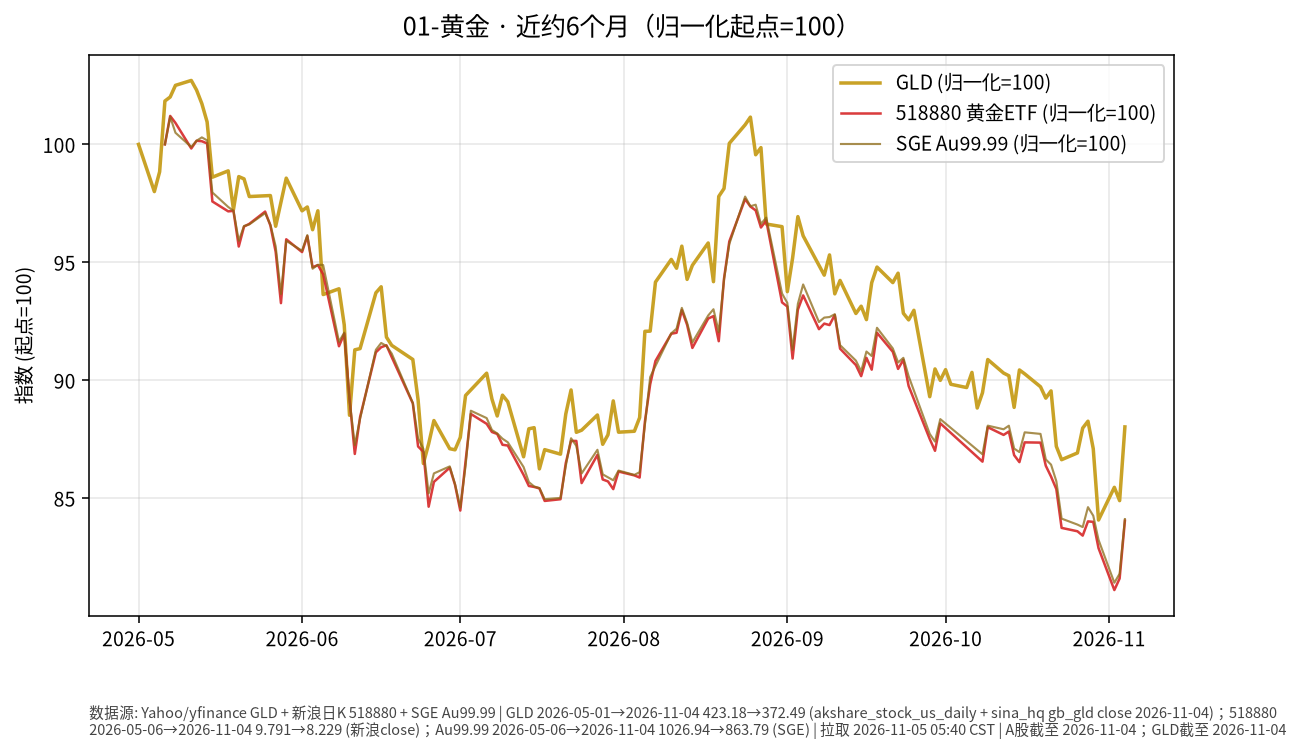
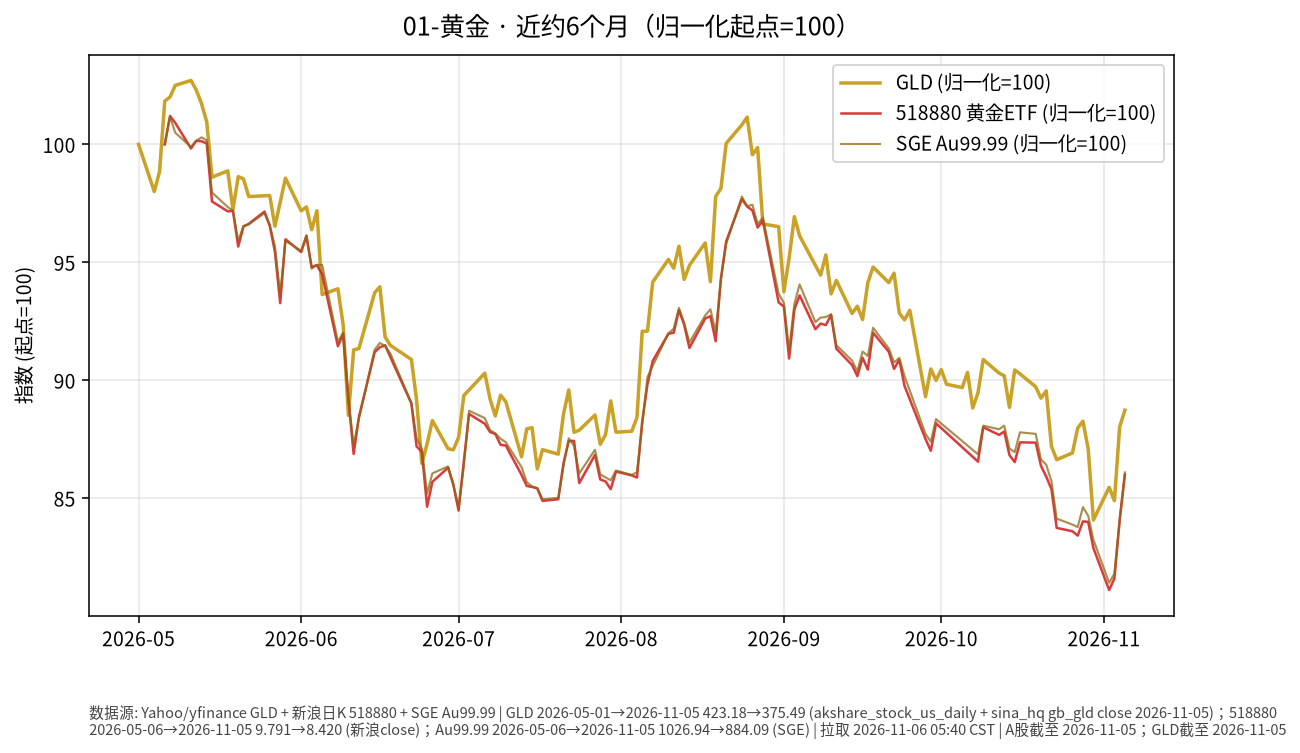
docs: 五门类投资日报 2026-11-06

diff --git a/01-黄金/日报/2026-11-06.md b/01-黄金/日报/2026-11-06.md
@@ -1,0 +1,38 @@
+# 黄金 · 日报 2026-11-06
+
+## 市场状态
+- **报告日**：2026-11-06（周五，Asia/Shanghai 盘前例程）
+- **数据截止交易日**：A 股/沪金均为 **2026-11-05（周四）**；GLD 为美股 **2026-11-05** 收盘（美东前一晚，对本报告而言属「隔夜已收」）。本页数字不含周五盘中。
+- GLD 收盘 **375.49**，较前一交易日（2026-11-04 的 372.49）**+0.81%**（akshare 日 K 至 11-04；**2026-11-05** 点位由新浪美股行情 `gb_gld` 补齐；yfinance/Yahoo 限流）。
+- 沪金 AU9999：**2026-11-05** 收盘 **884.09** 元/克（**+2.35%**）；黄金 ETF 518880 收 **8.420**（**+2.32%**）。
+
+## 关键数据
+| 标的 | 最近收盘日 | 收盘 | 日涨跌 | 近约6个月（归一起点日） | 区间涨跌 |
+|------|------------|------|--------|-------------------------|----------|
+| GLD | 2026-11-05 | 375.49 | +0.81% | 2026-05-01→2026-11-05 | -11.27% |
+| 518880 黄金ETF | 2026-11-05 | 8.420 | +2.32% | 2026-05-06→2026-11-05 | -14.00% |
+| AU9999（沪金） | 2026-11-05 | 884.09 | +2.35% | 2026-05-06→2026-11-05 | -13.91% |
+
+![近6个月走势](charts/01-黄金.png)
+
+## 简要解读
+- 美元计价黄金 ETF（GLD）在 **2026-11-05** 较前一交易日约 **+0.81%**；境内 518880 约 **+2.32%**，沪金 AU9999 约 **+2.35%**。近约半年归一后约 **-11.27%～-14.00%**（自 5 月高位回撤后的区间路径）。
+- 价格变动同时受美元、实际利率与风险情绪影响；本页只描述已发生报价，不推断下一步方向。
+
+## 关注点与风险
+- 汇率：境内投资者若以人民币计量，还需叠加美元兑人民币变动，账面涨跌可能与 GLD 美元涨跌不一致。
+- 波动：黄金单日可达数个百分点；ETF 净值/溢价、交易时段与现货不完全同步。
+- 数据完整性：GLD 历史至 11-04 来自 akshare；**2026-11-05** 收盘由新浪 `gb_gld` 补点（yfinance/Yahoo 限流）。518880 新浪日 K；SGE Au99.99 完整。
+
+## 来源与时间
+- GLD：akshare `stock_us_daily`（至 2026-11-04）+ 新浪 hq `gb_gld`（2026-11-05）；yfinance/Yahoo 限流
+- 518880：新浪日 K；AU9999：上海金交所 Dailyhq
+- 图表：Python matplotlib，收盘价归一到起点=100（图窗自 2026-05-01 起）；拉取约 2026-11-06 05:40:26 CST
+
+## 今日一点
+# 今日一点 · Day 10/100 · 《费用如何吃收益》
+
+**结论：** 费用是确定要扣的「负收益」——还没谈行情，申赎费、管理费、佣金和冲击成本已经在账上咬一口。
+
+**机制：** 申赎费在买卖时直接砍；管理费/托管费从净值里天天抽，一年下来才显眼；交易佣金按成交额计，频繁换仓就叠高；冲击成本是你自己的大单把价格推偏、成交均价变差。债底仓票息本就不高，费用若偏高会先吃掉「看起来稳」的那截；以后若划拨股票卫星，换手与冲击更显眼。和债底仓主线一致：先让费用可核对、可压低，再谈卫星。今天只讲摩擦，不定买卖。
+

diff --git a/03-国债/日报/2026-11-06.md b/03-国债/日报/2026-11-06.md
@@ -1,0 +1,37 @@
+# 国债 · 日报 2026-11-06
+
+## 市场状态
+- **报告日**：2026-11-06；**数据截止交易日**：**2026-11-05**。
+- 国债 ETF 511010 收 **141.352**，日涨跌 **+0.000%**。
+- 中债国债收益率曲线 **10 年期** 2026-11-05 报 **1.6038%**，较上一可得日（2026-11-04 的 1.6077%）约 **-0.39 BP**（akshare `bond_zh_us_rate`）。
+- **提醒**：利率上行（曲线上移）通常对应既有国债价格承压；图中 ETF 净值涨 ≠ 收益率涨。**利率↑线↑≠债价涨**。
+
+## 关键数据
+| 标的 | 收盘日 | 收盘/收益率 | 日变化 | 约6个月 | 区间 |
+|------|--------|-------------|--------|---------|------|
+| 511010 | 2026-11-05 | 141.352 | +0.000% | 2026-05-06→2026-11-05 | +0.38% |
+| 中债10Y国债收益率 | 2026-11-05 | 1.6038% | 约-0.39 BP | 2026-05-06→2026-11-05 | 约 -16.16 BP（akshare 序列） |
+
+![近6个月走势](charts/03-国债.png)
+
+## 简要解读
+- 511010 近半年归一涨跌约 **+0.38%**，路径相对平缓；2026-11-05 日涨跌 +0.000%，同时 10Y 收益率较前一可得日约 -0.39 BP（利率微幅变动对存量债价影响有限，单日仍可能受供需/折溢价影响）。
+- 久期越长，对收益率变化越敏感；本页只记录 ETF 收盘与曲线点位。图中右轴叠加中国10Y收益率日序。
+
+## 关注点与风险
+- 利率风险：收益率上行 → 债券市价下行。
+- 通胀预期、货币政策与供需（供给放量等）都会改变曲线形态。
+- 收益率序列来自公开曲线汇总，与 ETF 交易价时间戳不完全同步。
+
+## 来源与时间
+- 511010：新浪日 K；截止 2026-11-05
+- 收益率：akshare `bond_zh_us_rate`（2026-11-05，10Y=1.6038%）
+- 图表：matplotlib，ETF 收盘归一=100，中国10Y 收益率右轴；图注已写「利率↑线↑≠债价涨」；拉取约 2026-11-06 05:40:26 CST
+
+## 今日一点
+# 今日一点 · Day 10/100 · 《费用如何吃收益》
+
+**结论：** 费用是确定要扣的「负收益」——还没谈行情，申赎费、管理费、佣金和冲击成本已经在账上咬一口。
+
+**机制：** 申赎费在买卖时直接砍；管理费/托管费从净值里天天抽，一年下来才显眼；交易佣金按成交额计，频繁换仓就叠高；冲击成本是你自己的大单把价格推偏、成交均价变差。债底仓票息本就不高，费用若偏高会先吃掉「看起来稳」的那截；以后若划拨股票卫星，换手与冲击更显眼。和债底仓主线一致：先让费用可核对、可压低，再谈卫星。今天只讲摩擦，不定买卖。
+

diff --git a/05-高股息/日报/2026-11-06.md b/05-高股息/日报/2026-11-06.md
@@ -1,0 +1,38 @@
+# 高股息 · 日报 2026-11-06
+
+## 市场状态
+- **报告日**：2026-11-06；**数据截止交易日**：**2026-11-05**。
+- 红利 ETF 510880 收 **3.348**（**-2.19%**）。
+- 招商银行 600036 收 **42.54**（**+0.00%**）；长江电力 600900 收 **29.28**（**-1.31%**）。
+- 510880 与长电同日下行，招行持平；分红与价格涨跌是两回事（股息率随股价变动）。
+- **价格口径**：本页序列为交易所日 K **未复权**收盘（新浪）。
+
+## 关键数据
+| 标的 | 收盘日 | 收盘 | 日涨跌 | 约6个月 | 区间涨跌 |
+|------|--------|------|--------|---------|----------|
+| 510880 红利ETF | 2026-11-05 | 3.348 | -2.19% | 2026-05-06→2026-11-05 | +0.21% |
+| 600036 招商银行 | 2026-11-05 | 42.54 | +0.00% | 2026-05-06→2026-11-05 | +11.95% |
+| 600900 长江电力 | 2026-11-05 | 29.28 | -1.31% | 2026-05-06→2026-11-05 | +7.65% |
+
+![近6个月走势](charts/05-高股息.png)
+
+## 简要解读
+- 近半年归一（未复权）：510880 约 **+0.21%**，招行约 **+11.95%**，长电约 **+7.65%**（个股路径强于宽基红利 ETF，不代表未来）。
+- 2026-11-05：510880 **-2.19%**、招行 **+0.00%**、长电 **-1.31%**，属已发生的价格事实。
+
+## 关注点与风险
+- 银行与公用事业对利率、监管、来水/电价等基本面敏感；高股息不保证本金稳定。
+- 510880 成分与权重定期调整；个股与 ETF 走势可显著偏离。
+- 未复权序列在除权除息日会出现跳空，与前复权路径不一致属正常。
+
+## 来源与时间
+- 510880 / 600036 / 600900：新浪 CN_MarketData K 线（未复权）
+- 截止 2026-11-05；图表 matplotlib，起点=100；图注写明未复权；拉取约 2026-11-06 05:40:26 CST
+
+## 今日一点
+# 今日一点 · Day 10/100 · 《费用如何吃收益》
+
+**结论：** 费用是确定要扣的「负收益」——还没谈行情，申赎费、管理费、佣金和冲击成本已经在账上咬一口。
+
+**机制：** 申赎费在买卖时直接砍；管理费/托管费从净值里天天抽，一年下来才显眼；交易佣金按成交额计，频繁换仓就叠高；冲击成本是你自己的大单把价格推偏、成交均价变差。债底仓票息本就不高，费用若偏高会先吃掉「看起来稳」的那截；以后若划拨股票卫星，换手与冲击更显眼。和债底仓主线一致：先让费用可核对、可压低，再谈卫星。今天只讲摩擦，不定买卖。
+

diff --git a/02-中短债/日报/2026-11-06.md b/02-中短债/日报/2026-11-06.md
@@ -1,0 +1,36 @@
+# 中短债 · 日报 2026-11-06
+
+## 市场状态
+- **报告日**：2026-11-06；**A 股数据截止交易日**：**2026-11-05**（周五盘前）。
+- 短融 ETF 511360 收 **114.124**（日涨跌 **+0.011%**）。
+- 159649（国开债 ETF 华安）收 **110.897**（日涨跌 **+0.016%**）。
+- 短端品种单日变动极小；仅作路径对照，非交易建议。
+
+## 关键数据
+| 标的 | 收盘日 | 收盘 | 日涨跌 | 约6个月区间 | 区间涨跌 |
+|------|--------|------|--------|-------------|----------|
+| 511360 短融ETF海富通 | 2026-11-05 | 114.124 | +0.011% | 2026-05-06→2026-11-05 | +0.64% |
+| 159649 国开债ETF华安 | 2026-11-05 | 110.897 | +0.016% | 2026-05-06→2026-11-05 | +1.12% |
+
+![近6个月走势](charts/02-中短债.png)
+
+## 简要解读
+- 两条曲线近半年均呈缓慢抬升（归一后约 **+0.64%** / **+1.12%**），单日波动接近于零，符合短久期利率品种特征。
+- 159649 跟踪国开债，久期与信用暴露通常高于纯短融；与 511360 并排只为对照路径，不暗示优劣。
+
+## 关注点与风险
+- 利率上行时净值可能回撤（即使票息仍为正）。
+- ETF 折溢价、流动性与跟踪误差；节假日后跳空可能出现。
+- 杠杆与加久期会放大波动——本报告不讨论、不鼓励此类操作。
+
+## 来源与时间
+- 新浪 CN_MarketData 日 K，截止 2026-11-05
+- 图表：matplotlib，起点归一=100；拉取约 2026-11-06 05:40:26 CST
+
+## 今日一点
+# 今日一点 · Day 10/100 · 《费用如何吃收益》
+
+**结论：** 费用是确定要扣的「负收益」——还没谈行情，申赎费、管理费、佣金和冲击成本已经在账上咬一口。
+
+**机制：** 申赎费在买卖时直接砍；管理费/托管费从净值里天天抽，一年下来才显眼；交易佣金按成交额计，频繁换仓就叠高；冲击成本是你自己的大单把价格推偏、成交均价变差。债底仓票息本就不高，费用若偏高会先吃掉「看起来稳」的那截；以后若划拨股票卫星，换手与冲击更显眼。和债底仓主线一致：先让费用可核对、可压低，再谈卫星。今天只讲摩擦，不定买卖。
+

diff --git a/04-纯债/日报/2026-11-06.md b/04-纯债/日报/2026-11-06.md
@@ -1,0 +1,36 @@
+# 纯债 · 日报 2026-11-06
+
+## 市场状态
+- **报告日**：2026-11-06；**数据截止交易日**：**2026-11-05**。
+- 城投债 ETF 511220 收 **10.441**（**+0.000%**）。
+- 政金债/债券 ETF 511520 收 **120.026**（**-0.004%**）。
+- 两品种单日变动极小；近半年仍呈缓慢抬升。
+
+## 关键数据
+| 标的 | 收盘日 | 收盘 | 日涨跌 | 约6个月区间 | 区间涨跌 |
+|------|--------|------|--------|-------------|----------|
+| 511220 城投债ETF海富通 | 2026-11-05 | 10.441 | +0.000% | 2026-05-06→2026-11-05 | +1.04% |
+| 511520 政金债ETF富国 | 2026-11-05 | 120.026 | -0.004% | 2026-05-06→2026-11-05 | +2.76% |
+
+![近6个月走势](charts/04-纯债.png)
+
+## 简要解读
+- 近半年归一：511220 约 **+1.04%**，511520 约 **+2.76%**；2026-11-05 两品种日涨跌接近于零，属已发生价格事实。
+- 城投债含信用利差暴露，政金债更偏利率；并排对照路径，不评价孰优。
+
+## 关注点与风险
+- 信用利差扩张时，城投/信用类净值回撤可能大于利率债。
+- 利率上行同样压制久期更长的品种。
+- ETF 折溢价与跟踪误差；本报告不讨论杠杆与下沉信用。
+
+## 来源与时间
+- 新浪 CN_MarketData 日 K，截止 2026-11-05
+- 图表：matplotlib，起点归一=100；拉取约 2026-11-06 05:40:26 CST
+
+## 今日一点
+# 今日一点 · Day 10/100 · 《费用如何吃收益》
+
+**结论：** 费用是确定要扣的「负收益」——还没谈行情，申赎费、管理费、佣金和冲击成本已经在账上咬一口。
+
+**机制：** 申赎费在买卖时直接砍；管理费/托管费从净值里天天抽，一年下来才显眼；交易佣金按成交额计，频繁换仓就叠高；冲击成本是你自己的大单把价格推偏、成交均价变差。债底仓票息本就不高，费用若偏高会先吃掉「看起来稳」的那截；以后若划拨股票卫星，换手与冲击更显眼。和债底仓主线一致：先让费用可核对、可压低，再谈卫星。今天只讲摩擦，不定买卖。
+

diff --git a/notes/invest-knowledge-100/今日一点/2026-11-06-day10.md b/notes/invest-knowledge-100/今日一点/2026-11-06-day10.md
@@ -1,0 +1,5 @@
+# 今日一点 · Day 10/100 · 《费用如何吃收益》
+
+**结论：** 费用是确定要扣的「负收益」——还没谈行情，申赎费、管理费、佣金和冲击成本已经在账上咬一口。
+
+**机制：** 申赎费在买卖时直接砍；管理费/托管费从净值里天天抽，一年下来才显眼；交易佣金按成交额计，频繁换仓就叠高；冲击成本是你自己的大单把价格推偏、成交均价变差。债底仓票息本就不高，费用若偏高会先吃掉「看起来稳」的那截；以后若划拨股票卫星，换手与冲击更显眼。和债底仓主线一致：先让费用可核对、可压低，再谈卫星。今天只讲摩擦，不定买卖。

diff --git a/notes/invest-knowledge-100/progress.md b/notes/invest-knowledge-100/progress.md
@@ -1,4 +1,4 @@
-next_day: 10
+next_day: 11
 started: 2026-10-26
-last_completed_day: 9
-last_date: 2026-11-05
+last_completed_day: 10
+last_date: 2026-11-06
